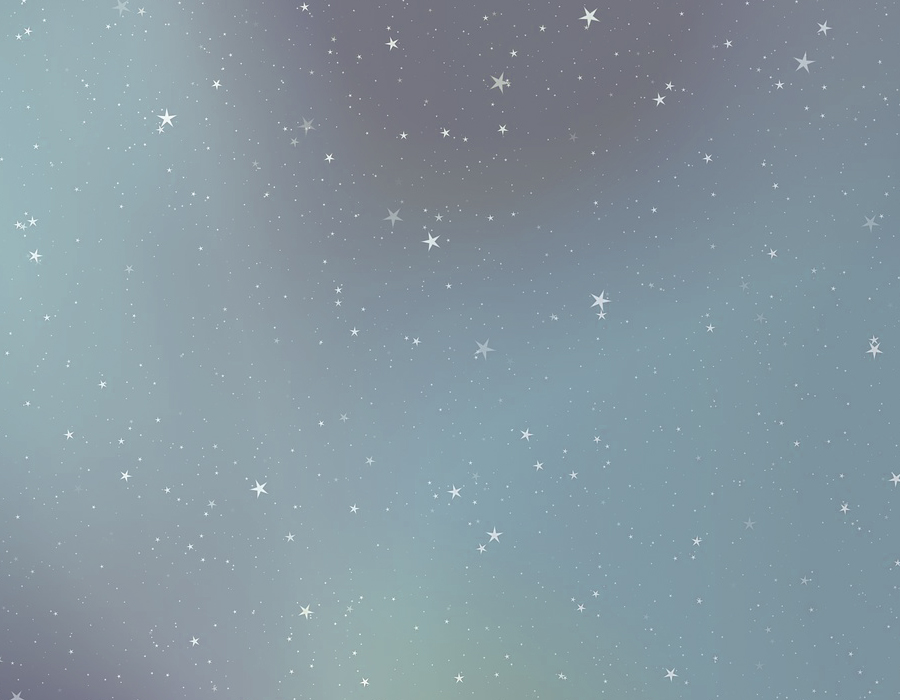
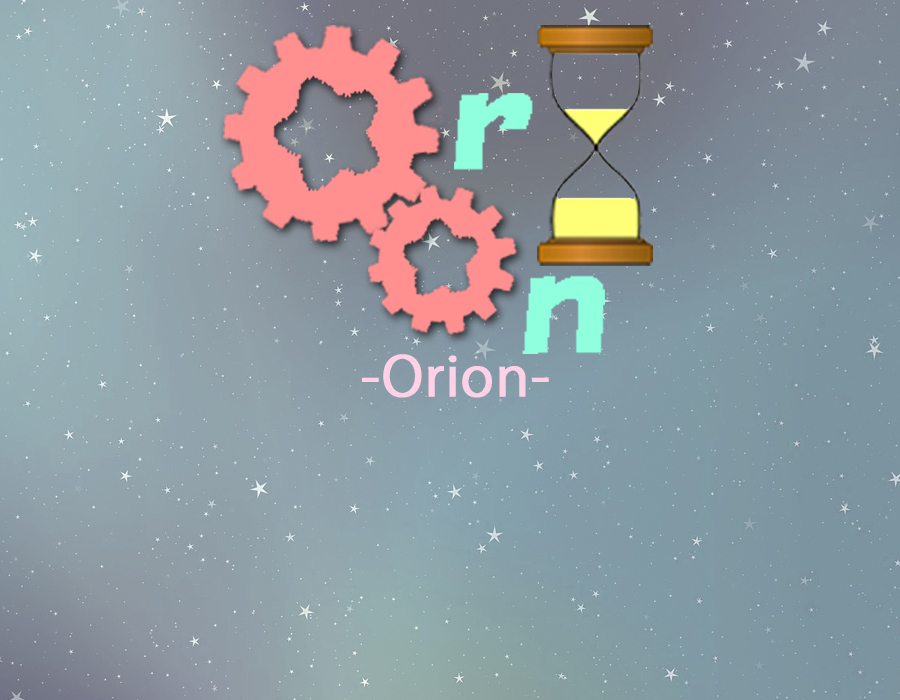
タイトルシーンの変更

Changed region(s): [[0.2489, 0.03, 0.7467, 0.57], [0.5911, 0.03, 0.7467, 0.09], [0.6222, 0.15, 0.7156, 0.24]]

diff --git a/GameTitle.cpp b/GameTitle.cpp
@@ -31,7 +31,7 @@ GameTitle::GameTitle()
 
 	ComPtr<ID3D11Resource> resource;
 	DX::ThrowIfFailed(
-		CreateWICTextureFromFile(m_deviceResources->GetD3DDevice(), L"Resouces/background_title.jpg",
+		CreateWICTextureFromFile(m_deviceResources->GetD3DDevice(), L"Resouces/background_title.png",
 			resource.GetAddressOf(),
 			m_texture.ReleaseAndGetAddressOf()));
 
